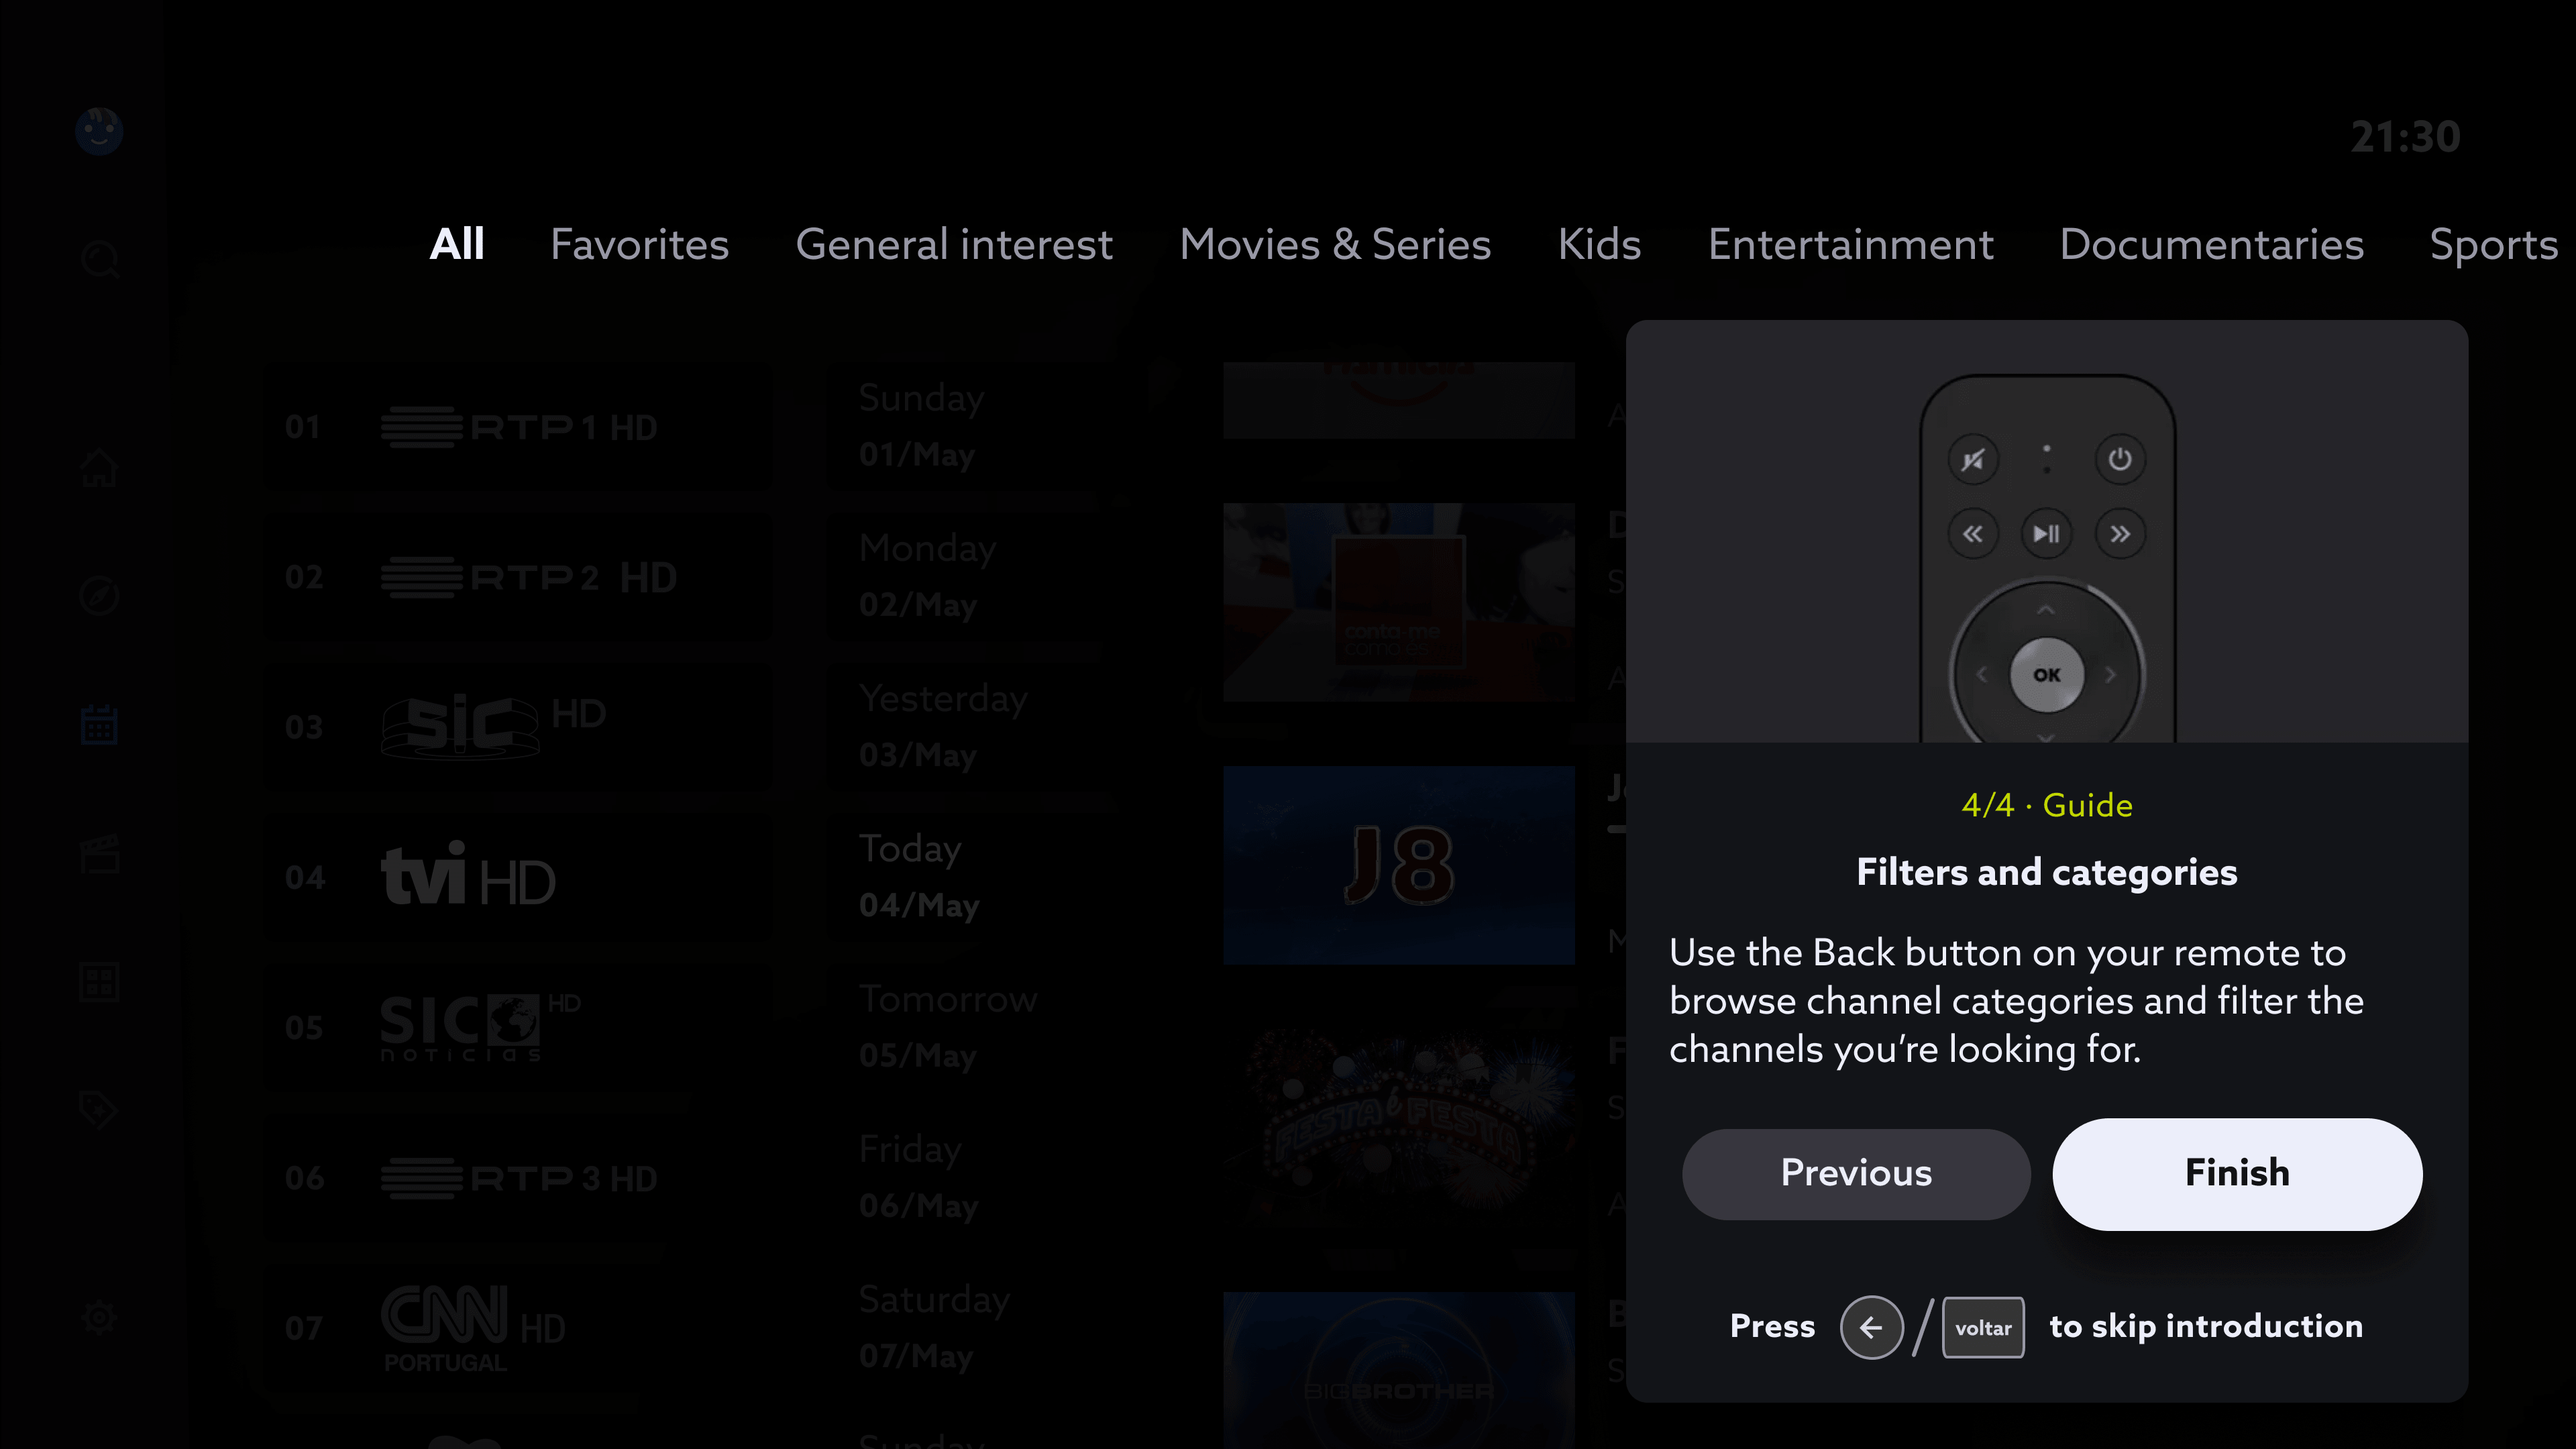
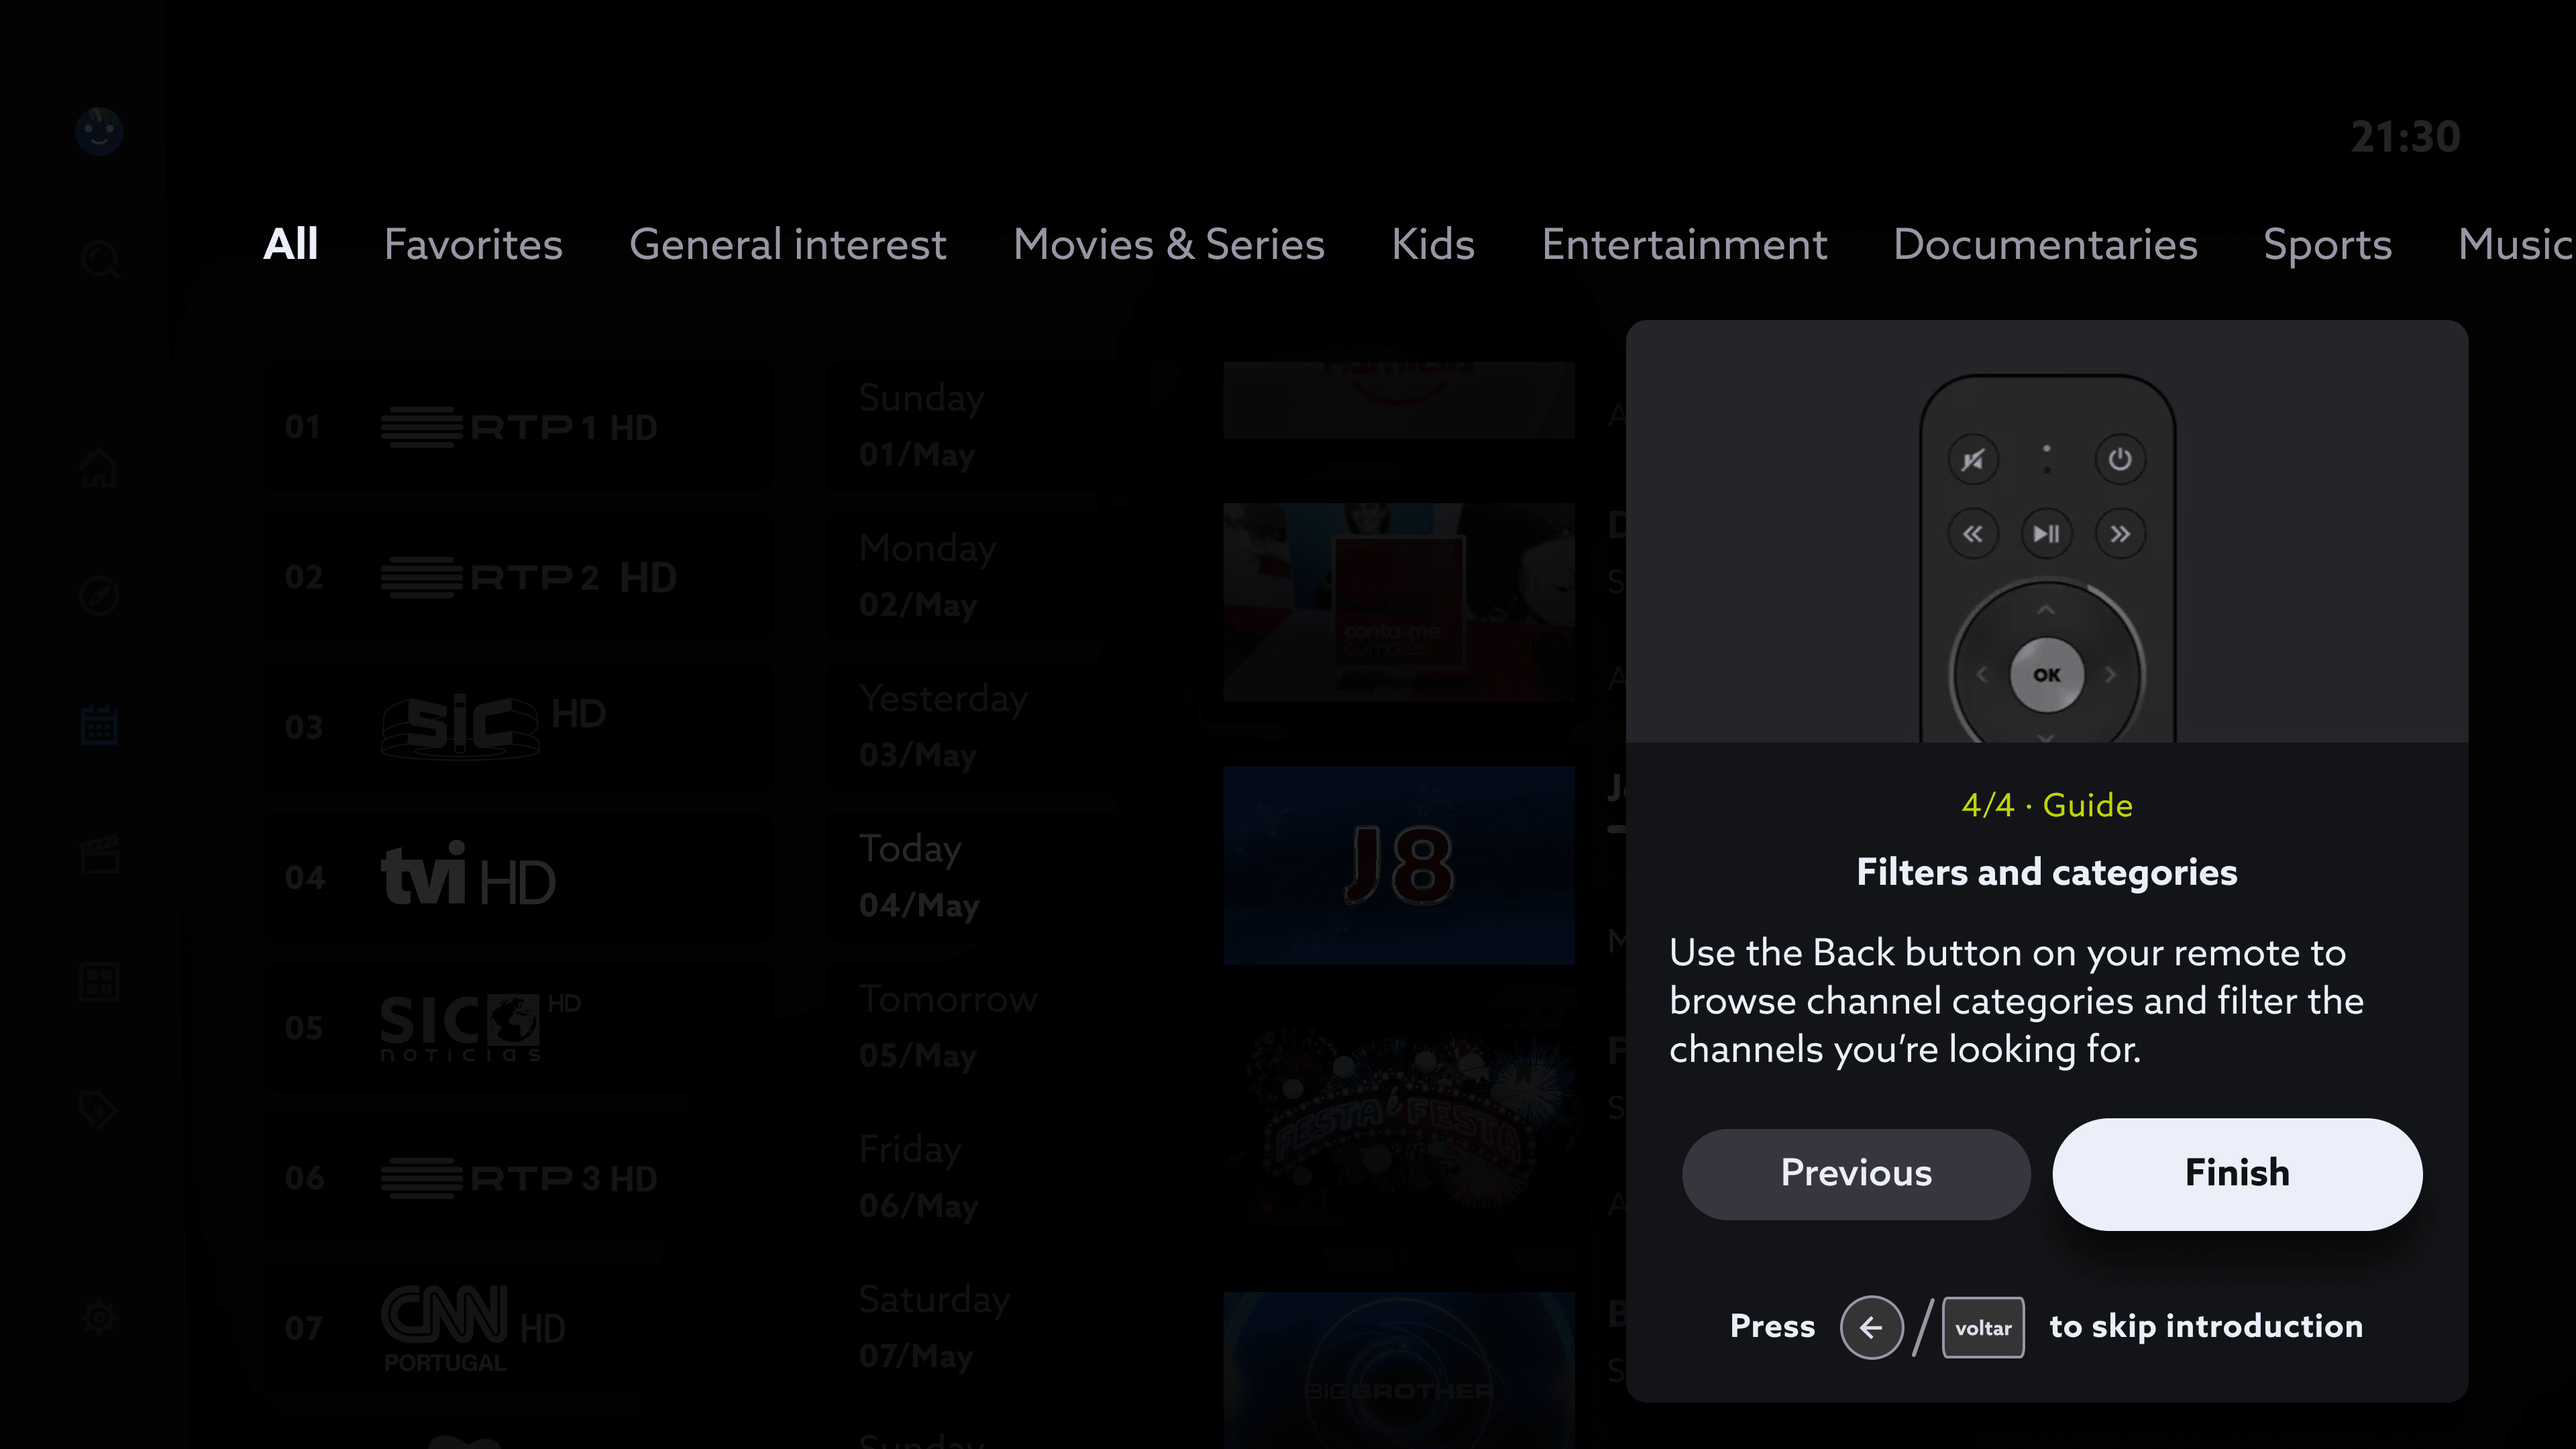
Ajusta layout do case de onboarding

Changed region(s): [[0.1562, 0.1551, 1.0, 0.1861], [0.0938, 0.1551, 0.125, 0.1861]]

diff --git a/src/components/case/CaseStudy.tsx b/src/components/case/CaseStudy.tsx
@@ -1,4 +1,3 @@
-import { Fragment } from "react";
 import type { ReactNode } from "react";
 import type { Locale } from "@/i18n/config";
 import type { CaseContent, StickyColor } from "@/content/cases/types";
@@ -121,8 +120,8 @@ export function CaseStudy({ project, content: c, folder, locale }: Props) {
       <div className="container-page">
         {/* ---------- Resumo + ficha ---------- */}
         <Section id="summary" last>
-          {/* Figma: a ficha (equipe em cima, timeline/plataforma embaixo) ocupa a mesma altura dos parágrafos,
-              alinhada com o primeiro e com o último. Por isso o título fica numa linha própria do grid. */}
+          {/* Figma: a ficha começa na altura do primeiro parágrafo (por isso o título fica numa linha própria do grid),
+              com 88px entre a equipe e timeline/plataforma. */}
           <div className="grid gap-x-12 lg:grid-cols-[minmax(0,40.25rem)_minmax(0,35.375rem)] lg:grid-rows-[auto_1fr] lg:justify-between">
             <h2 data-reveal id="summary-title" className={`${headingClass} lg:col-start-1`}>
               {c.labels.summary}
@@ -130,13 +129,7 @@ export function CaseStudy({ project, content: c, folder, locale }: Props) {
             <div data-reveal className="mt-6 flex flex-col gap-6 lg:col-start-1">
               {c.summary.map((paragraph) => (
                 <p key={paragraph} className={bodyXl}>
-                  {paragraph.split("\n").map((line, index) => (
-                    <Fragment key={index}>
-                      {index > 0 && <br className="max-lg:hidden" />}
-                      {index > 0 && " "}
-                      {line}
-                    </Fragment>
-                  ))}
+                  {paragraph}
                 </p>
               ))}
             </div>
@@ -144,7 +137,7 @@ export function CaseStudy({ project, content: c, folder, locale }: Props) {
             <div
               data-reveal
               style={revealDelay(120)}
-              className="mt-12 flex flex-col gap-12 lg:col-start-2 lg:row-start-2 lg:mt-6 lg:justify-between"
+              className="mt-12 flex flex-col gap-12 lg:col-start-2 lg:row-start-2 lg:mt-6 lg:gap-[5.5rem]"
             >
               <div>
                 <h3 className="text-body-xl font-medium leading-normal text-[#333]">{c.labels.team}</h3>
@@ -263,7 +256,8 @@ export function CaseStudy({ project, content: c, folder, locale }: Props) {
 
         {/* ---------- Personas ---------- */}
         <Section id="personas">
-          <div className="grid gap-12 lg:grid-cols-[minmax(0,26.3125rem)_minmax(0,47.625rem)] lg:justify-between">
+          {/* Abaixo de 1150px os cards vão para baixo do texto (lado a lado eles ficavam estreitos demais). */}
+          <div className="grid gap-12 min-[1150px]:grid-cols-[minmax(0,26.3125rem)_minmax(0,47.625rem)] min-[1150px]:justify-between">
             <div className="flex flex-col gap-6">
               <SectionHeader id="personas" eyebrow={c.personas.eyebrow} title={c.personas.title} strong loose />
               <p data-reveal style={revealDelay(80)} className="text-body-lg text-text-secondary">{c.personas.intro}</p>
@@ -353,7 +347,8 @@ export function CaseStudy({ project, content: c, folder, locale }: Props) {
 
           {/* Desktop: 80px entre o fim do último card (imagem) e "Outros pontos" (64px + 16px de padding).
               relative z-10 bg-white: fica por cima da sobra do último card (ver StackList trimEnd). */}
-          <div data-reveal className="mt-14 grid gap-8 pt-4 lg:relative lg:z-10 lg:mt-16 lg:grid-cols-[minmax(0,1fr)_minmax(0,61.0625rem)] lg:bg-white">
+          {/* Abaixo de 1200px os princípios vão para baixo do título "Outros pontos". */}
+          <div data-reveal className="mt-14 grid gap-8 pt-4 lg:relative lg:z-10 lg:mt-16 lg:bg-white min-[1200px]:grid-cols-[minmax(0,1fr)_minmax(0,61.0625rem)]">
             <h3 className="text-body-xl font-medium leading-[1.2] tracking-[-0.03em] text-[#333]">{c.heuristics.othersTitle}</h3>
             <ul className="grid gap-x-16 gap-y-10 sm:grid-cols-2">
               {c.heuristics.others.map((item) => (
@@ -377,9 +372,16 @@ export function CaseStudy({ project, content: c, folder, locale }: Props) {
         {/* ---------- Áreas do onboarding ---------- */}
         <Section id="flow">
           <SectionHeader id="flow" eyebrow={c.flow.eyebrow} title={c.flow.title} />
+          {/* Subgrid: título+texto e imagem de cada card ficam em linhas do grid da lista, então as imagens lado a lado
+              começam na mesma altura mesmo quando um texto tem mais linhas que o outro. */}
           <ul className="mt-14 grid gap-x-6 gap-y-12 md:grid-cols-2">
             {c.flow.items.map((item, index) => (
-              <li key={item.title} data-reveal style={revealDelay((index % 2) * 120)} className="flex flex-col gap-6">
+              <li
+                key={item.title}
+                data-reveal
+                style={revealDelay((index % 2) * 120)}
+                className="flex flex-col gap-6 md:row-span-2 md:grid md:grid-rows-subgrid"
+              >
                 <div>
                   <h3 className="text-body-xl font-medium tracking-[-0.03em] text-text-primary">{item.title}</h3>
                   <p className="text-body leading-[1.3125] text-text-secondary">{item.text}</p>
@@ -412,7 +414,12 @@ export function CaseStudy({ project, content: c, folder, locale }: Props) {
           {/* Quadro de post-its, em HTML (o texto fica legível para buscadores e leitores de tela). */}
           <div data-reveal className="mt-14 rounded-[1.5rem] bg-[#f9f9f9] p-[clamp(1.5rem,4vw,3.5rem)] pt-[clamp(1.5rem,3.4vw,3rem)]">
             <h3 className="text-subtitle font-bold leading-[1.2] tracking-[-0.03em] text-text-primary">{c.critique.board.title}</h3>
-            <div className="mt-10 grid gap-x-10 gap-y-10 sm:grid-cols-2 lg:grid-cols-[18.5rem_28.25rem_15.25rem] lg:justify-between" lang={c.critique.board.lang}>
+            {/* Colunas com largura máxima do Figma que encolhem até 1 post-it (8.75rem) quando falta espaço:
+                os post-its quebram de linha dentro da coluna em vez de vazarem do quadro. */}
+            <div
+              className="mt-10 grid gap-x-[clamp(1.5rem,3vw,2.5rem)] gap-y-10 sm:grid-cols-2 lg:grid-cols-[minmax(8.75rem,18.5rem)_minmax(8.75rem,28.25rem)_minmax(8.75rem,15.25rem)] lg:justify-between"
+              lang={c.critique.board.lang}
+            >
               {c.critique.board.groups.map((group) => (
                 <div key={group.title}>
                   <h4 className="text-body-xl font-bold leading-normal tracking-[-0.03em] text-[#333]">{group.title}</h4>

diff --git a/src/content/cases/nos-tv-onboarding.ts b/src/content/cases/nos-tv-onboarding.ts
@@ -39,10 +39,9 @@ const pt: CaseContent = {
     playVideo: "Reproduzir vídeo",
   },
   summary: [
-    // "\n" = quebra de linha do Figma, aplicada só no desktop (no celular o texto quebra sozinho).
-    "A UMA TV é o principal produto de TV da NOS, no qual atuei por\nmais de 2 anos como Product Designer Sênior. Como parte da evolução para uma experiência multiplataforma (STB, Apple TV, Android TV),\nliderei o processo do onboarding para o produto.",
-    "A primeira versão não apresentou bons resultados nos testes com usuários e com prazo apertado para entrega, decidimos adotar\numa abordagem mais simples: tooltips contextuais que introduzem\nas funcionalidades ao longo da jornada.",
-    "A solução foi validada em uma rodada de testes de usabilidade,\ncom cerca de 9 usuários, e lançada com a nova versão da TV\npara cerca de 1 milhão de assinantes.",
+    "A UMA TV é o principal produto de TV da NOS, no qual atuei por mais de 2 anos como Product Designer Sênior. Como parte da evolução para uma experiência multiplataforma (STB, Apple TV, Android TV), liderei o processo do onboarding para o produto.",
+    "A primeira versão não apresentou bons resultados nos testes com usuários e com prazo apertado para entrega, decidimos adotar uma abordagem mais simples: tooltips contextuais que introduzem as funcionalidades ao longo da jornada.",
+    "A solução foi validada em uma rodada de testes de usabilidade, com cerca de 9 usuários, e lançada com a nova versão da TV para cerca de 1 milhão de assinantes.",
   ],
   team: [
     { role: "Design Manager", name: "Nelson Delicado" },
@@ -289,7 +288,7 @@ const pt: CaseContent = {
       },
       {
         title: "EPG Guide",
-        text: "Guia de programação dos canais, com foco no que está passando e filtros por categoria.",
+        text: "Guia de programação dos canais e filtros por categoria.",
         image: { file: "flow-epg", alt: "Guia de programação com canais, dias da semana e programas em exibição." },
       },
       {
@@ -675,7 +674,7 @@ const en: CaseContent = {
       { ...pt.flow.items[0], text: "The TV’s main area, bringing together personalised content, offers and continue watching.", image: { ...pt.flow.items[0].image, alt: "New UMA home page with “On TV now” and the “1-month offer” campaign." } },
       { ...pt.flow.items[1], text: "A player whose features change with the type of content.", image: { ...pt.flow.items[1].image, alt: "Live TV player showing Doctor Who, with the progress bar and the “Channel schedule” button." } },
       { ...pt.flow.items[2], text: "Features and information about what’s being watched.", image: { ...pt.flow.items[2].image, alt: "Doctor Who details page with synopsis, actions and season list." } },
-      { ...pt.flow.items[3], text: "Channel programme guide, focused on what’s on now, with category filters.", image: { ...pt.flow.items[3].image, alt: "Programme guide with channels, weekdays and shows on air." } },
+      { ...pt.flow.items[3], text: "Channel programme guide and category filters.", image: { ...pt.flow.items[3].image, alt: "Programme guide with channels, weekdays and shows on air." } },
       { ...pt.flow.items[4], title: "Search", text: "Search for content, cast, apps and TV channels.", image: { ...pt.flow.items[4].image, alt: "Search screen with an on-screen keyboard and a tip to search by voice with the remote." } },
       { ...pt.flow.items[5], text: "Profile and box settings.", image: { ...pt.flow.items[5].image, alt: "Settings on the “Manage profiles” tab, with the profile list and the TV profile." } },
     ],

diff --git a/src/components/case/PeopleRow.tsx b/src/components/case/PeopleRow.tsx
@@ -43,13 +43,20 @@ export function PeopleRow({ total, count, tone }: Props) {
   const color = tone === "negative" ? "text-[#f0372a]" : "text-[#5aa300]";
 
   return (
-    <div ref={ref} aria-hidden="true" className="flex flex-wrap gap-x-[clamp(0.25rem,1.2vw,1rem)] gap-y-2">
+    // Figma: a fileira ocupa a coluna inteira (9 ícones de 56px com 16px entre eles = 632px), de ponta a ponta.
+    // Em telas menores os ícones encolhem junto, sem quebrar linha.
+    <div
+      ref={ref}
+      aria-hidden="true"
+      className="grid w-full max-w-[40.25rem] gap-x-[clamp(0.5rem,1.2vw,1rem)]"
+      style={{ gridTemplateColumns: `repeat(${total}, minmax(0, 1fr))` }}
+    >
       {Array.from({ length: total }, (_, i) => {
         const highlighted = i < count && state !== "idle";
         return (
           <PersonIcon
             key={i}
-            className={`size-[clamp(1.75rem,4vw,3.5rem)] transition-colors duration-300 ${highlighted ? color : "text-[#d9d9d9]"}`}
+            className={`aspect-square h-auto w-full transition-colors duration-300 ${highlighted ? color : "text-[#d9d9d9]"}`}
             style={state === "active" && i < count ? { transitionDelay: `${START_MS + i * STEP_MS}ms` } : undefined}
           />
         );
